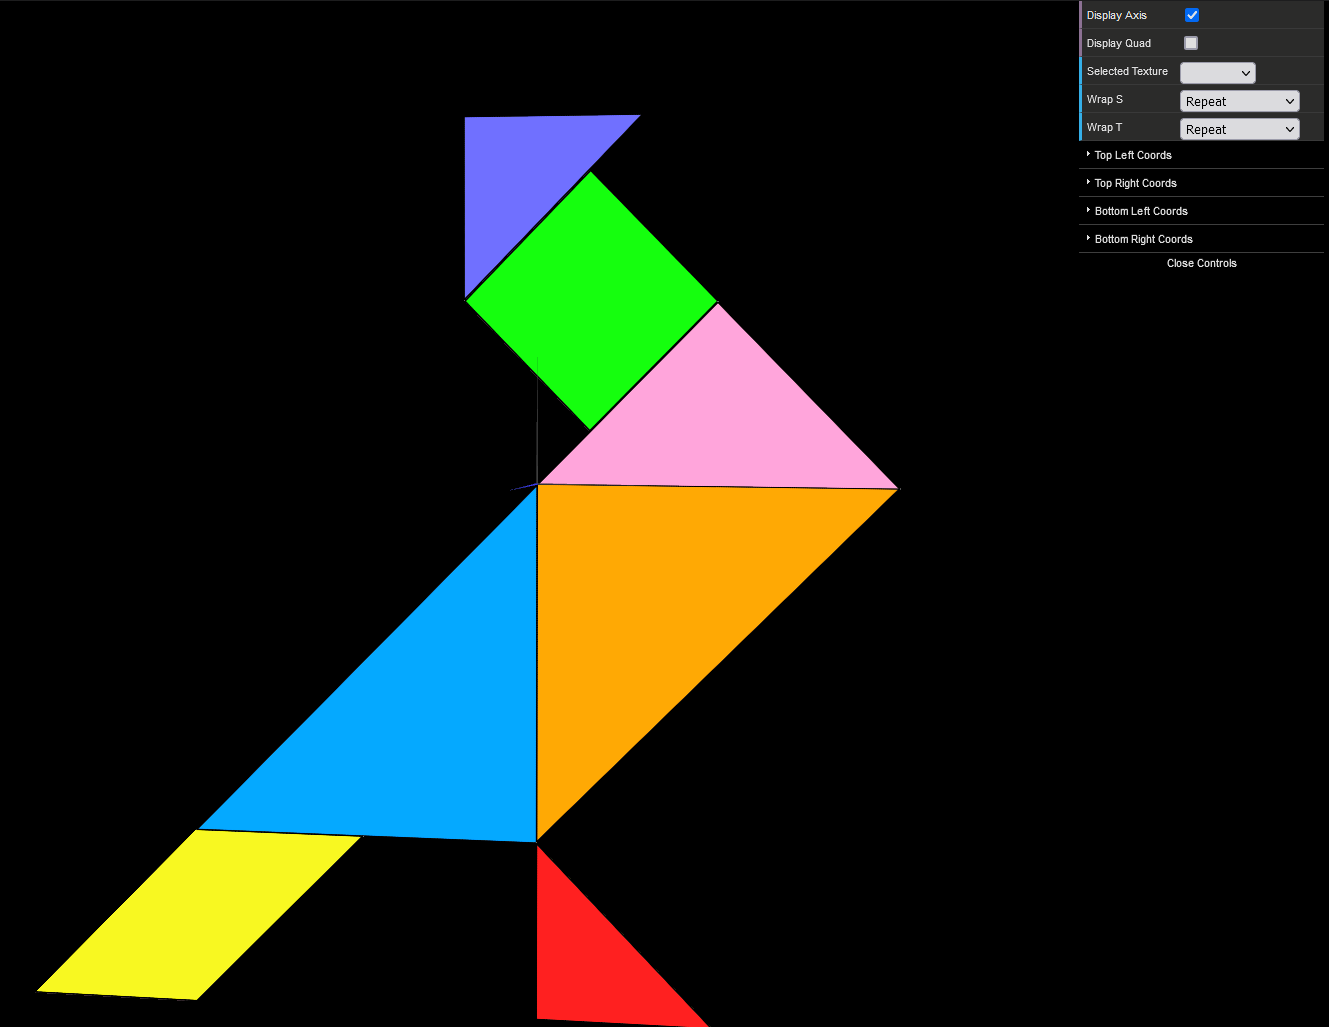
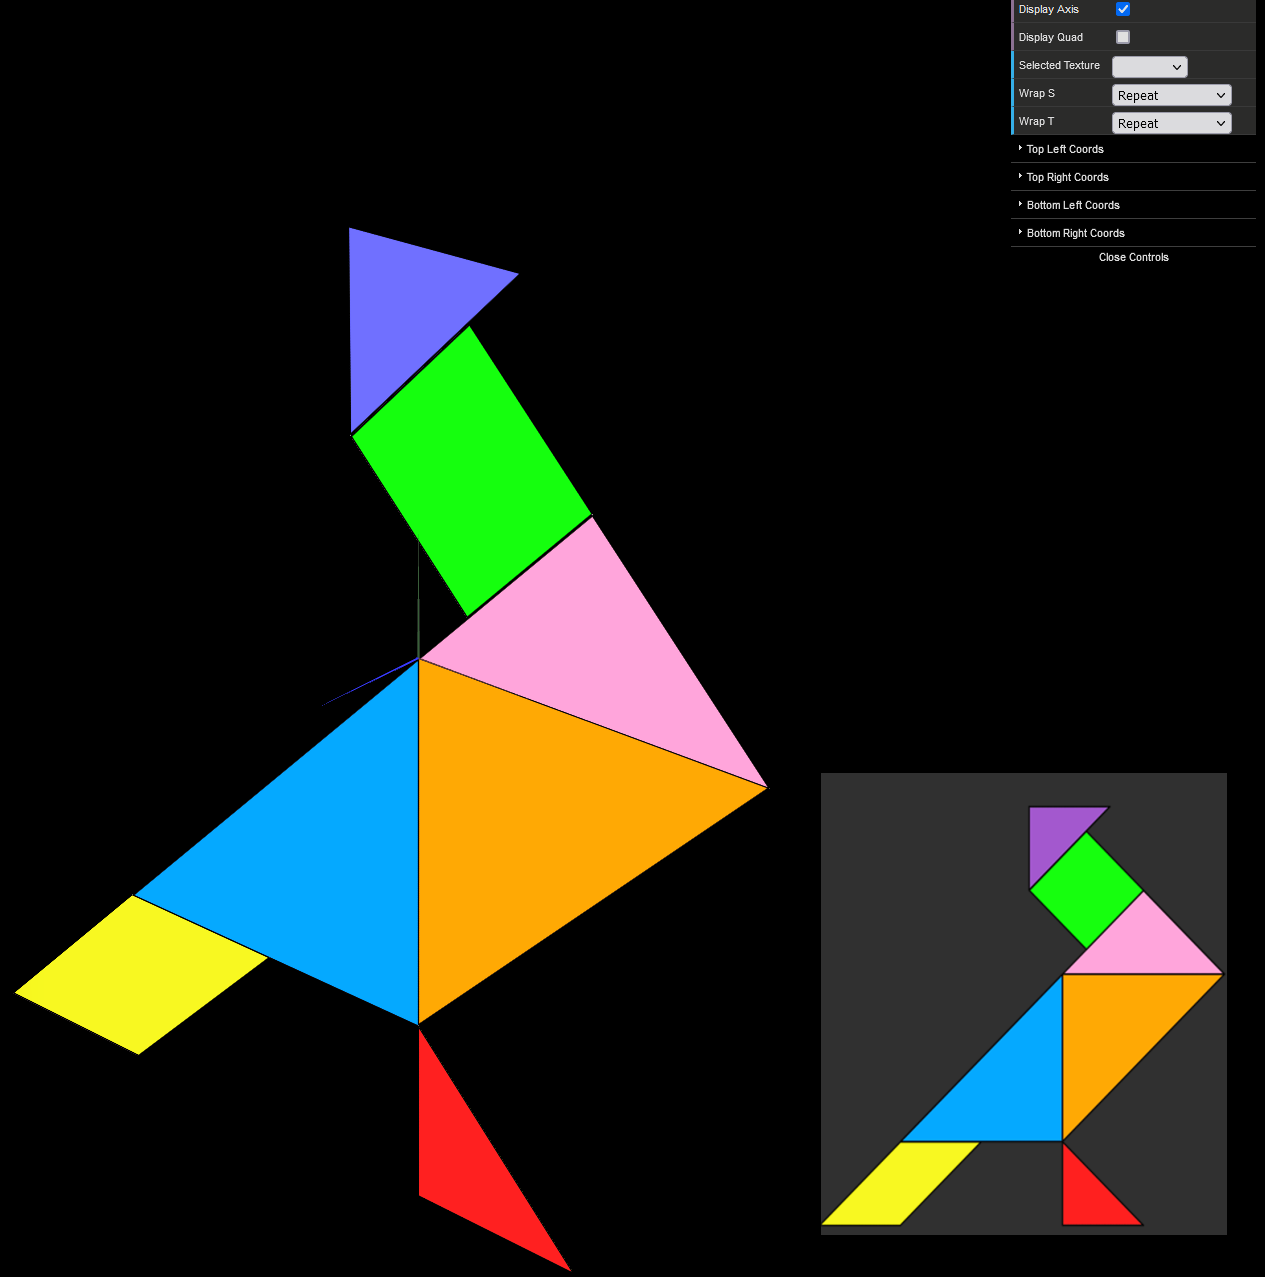
Changed screenshot and filled readme

diff --git a/tp4/README.md b/tp4/README.md
@@ -1,1 +1,11 @@
-# [COPY FROM PREVIOUS TP AND ADJUST]
+# CG 2023/2024
+
+## Group T04G11
+
+## TP 4 Notes
+
+- We started this worksheet by experimenting with the scene controls for manipulating the texture applied to the predefined quad object.
+
+- In the first exercise we applied texture coordinates for each piece of the tangram, creating new classes for the repeated pieces with different colours, following the same structure as the existing quad object.
+
+![Screenshot 1](tp4/screenshots/cg-t04g11-tp4-1.png) 
